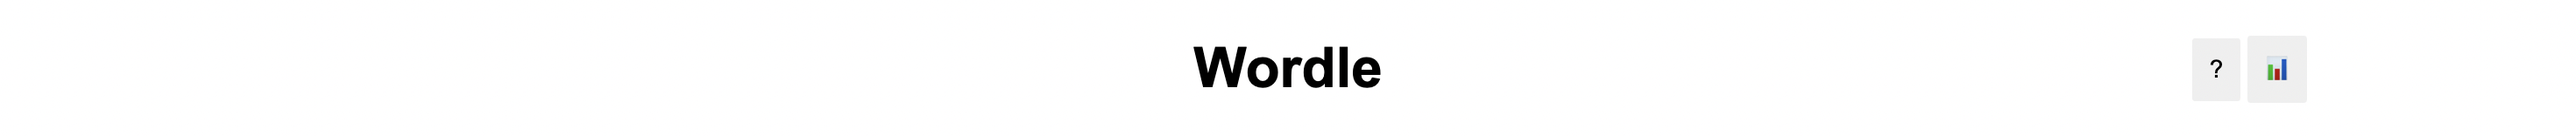
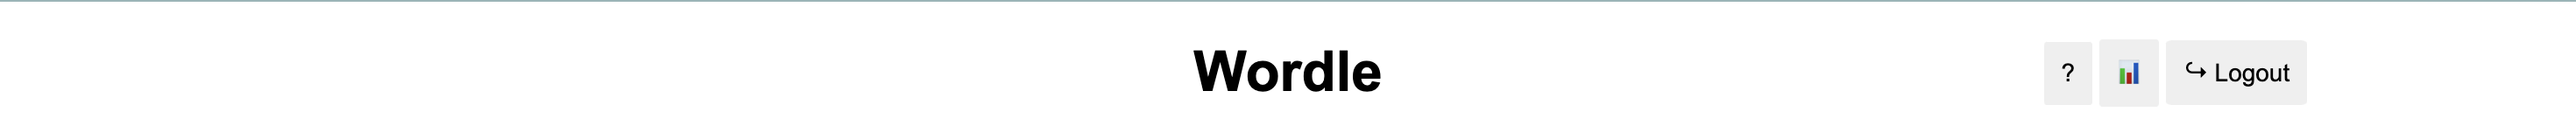
update header screenshot and design doc

diff --git a/docs/design_system.md b/docs/design_system.md
@@ -18,7 +18,7 @@ Each user can also be deleted. For every user, the admin has the ability to manu
 
 ### Gameplay
 #### Headers
-The header of the game is positioned at the top of the screen and serves as an easily accessible menu for users. The game title is centered within the header, ensuring that it is easily identifiable without overshadowing the gameboard and playing experience. Within the header, users can also find two intuitively recognizable buttons with symbols that represent a button to access the help and instructions, and another to access the scoreboard. Please refer to [Header Mockup](/docs/assets/design_system/header.html) for the header mockup.  
+The header of the game is positioned at the top of the screen and serves as an easily accessible menu for users. The game title is centered within the header, ensuring that it is easily identifiable without overshadowing the gameboard and playing experience. Within the header, users can also find two intuitively recognizable buttons with symbols that represent a button to access the help and instructions, a button to access the scoreboard, and another button to logout. Please refer to [Header Mockup](/docs/assets/design_system/header.html) for the header mockup.  
 ![Header](/docs/assets/design_system/header.png)
 
 #### Gameboard
@@ -56,7 +56,7 @@ Font sizes are chosen to ensure clarity and structure. Headers, including the ti
 The colour palette is carefully curated to provide the user with an enhanced user experience, using high-contrasting colours to emphasize readability and accessibility. All the text in the game is black (#000000), and the main game area features a white background (#FFFFFF). Wordle also uses yellow, green, and grey in their respective tiles to indicate the status of each letter in each guess, based on whether or not the letter is a letter in the word and if it's in the correct position or not. These colours provide immediate visual feedback of the guesses, making the game system easy to understand without needing to read instructions. Refer to [README.md](/README.md) for more details on how the colours correlate to the guesses. Overall, these colour aspects provide a modern, sleek, and visually appealing interface that is both user-friendly and eye-catching.
 
 ## Back-End Components
-All of these components can be found in the [script.js](/script.js) file.
+All of these components can be found in the [gameplay.js](/gameplay.js) file.
 
 ### The buildGame() Function
 At the beginning of each game, the gameboard needs to be cleared, especially if the user had just played a round. To make the process easier, the buildGame() function is used to re-generate all of the front-end components of the gameboard, so that everything is reset to its original state quickly and in a simple manner.  
@@ -111,7 +111,7 @@ Each round of the game runs on a Game object. The object is responsible for stor
 **NOTE:** Checking the validity of a word is done in the [Session.php](/models/Session.php) file through the use of the Datamuse API.
 
 #### Starting A New Game
-The Game object is responsible for keeping track of every round and game. If the user stars the game for the first time, a new session is opened and a Game object is created. Once a user hits "Play Again", a new Game object is created and the correctWord is initialized. correctWord is randomly assigned based on what 5-letter words are in the wordInventory instance variable of the object. This is done in the PHP header of [index.php](/index.php).
+The Game object is responsible for keeping track of every round and game. If the user stars the game for the first time, a new session is opened and a Game object is created. Once a user hits "Play Again", a new Game object is created and the correctWord is initialized. correctWord is randomly assigned based on what 5-letter words are in the wordInventory instance variable of the object. This is done in the PHP header of [gameplay.php](/gameplay.php).
 
 ```php
 require "models/Game.php";
@@ -311,23 +311,33 @@ private function checkLetters($inputArray, $correctArray, $correctPositions) {
 Once the user presses the Enter key, the guess is submitted to the submitGuess block in [Session.php](/models/Session.php) to return the results in the response. If the result is True, then the guess is a perfect match. The game then ends. Otherwise, the script will colour the backgrounds of the tiles using DOM to be green if the letter in the guess is in the correct position, yellow if the letter is in the word but in the wrong position, and gray if the letter is incorrect. Once the round ends, the current Game object is appended to an array, games, which is used to track the user's past games.  
 
 ### Tracking The Scores
-Since each round is a separate Game object, the script is able to store the number of attempts and the correct word in the array, games. It then uses the displayAllGames() function to build a table that reads the number of attempts that were made in each round and the correct word and displays it as statistics to the user. The user can view their statistics either by clicking on bar graph symbol in the header or it is automatically displayed to the user at the end of each game.  
+Since each round is a separate Game object, the script is able to store the number of attempts and the correct word in the array, games. It then uses the displayAllGames() function to build a table that reads the number of attempts that were made in each round and the correct word and displays it as statistics to the user. The user can view their statistics either by clicking on bar graph symbol in the header or it is automatically displayed to the user at the end of each game. The [Session.php](/models/Session.php) file will automatically return a response that slices the top 10 of the user's scores from the database.
+
+[Session.php](/models/Session.php):
 ```php
+function displayGames() {
+    global $dbconnection;
+    $toReturn = [];
+
+    $query = "SELECT NumAttempts, CorrectWord FROM Scores WHERE EmailAddress = $1 ORDER BY NumAttempts, CorrectWord ASC LIMIT 10";
+    $games = pg_query_params($dbconnection, $query, [$_SESSION["emailAddress"]]);
+
+    while ($game = pg_fetch_assoc($games)) {
+        $toReturn[] = [htmlspecialchars($game["numattempts"]), htmlspecialchars($game["correctword"])];
+    }
+
+    return $toReturn;
+}
+```
+
+[gameplay.js](/gameplay.js):
+```javascript
 function displayAllGames(games) {
     var popup = document.getElementsByClassName("popup")[0];
     var gamesTable = document.createElement("table");
     gamesTable.classList.add("games-table");
-    var gamesLen = 10;
 
-    games.sort(function(a, b){return a[0] - b[0]}); //sort by score (lowest score is first)
-
-    if (games.length < 10) { //only display the top 10 scores
-        gamesLen = games.length;
-    }
-
-    games = games.slice(0, gamesLen); //take the top 10 scores (if less than 10, take all of them)
-
-    for (let i = 0; i < gamesLen; i++) {
+    for (let i = 0; i < games.length; i++) {
         var row = document.createElement("tr");
 
         var rowNum = document.createElement("td");
